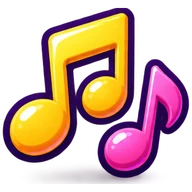
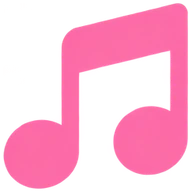
アイコン12個を、つやのあるゲーム風からシンプルなフラットな絵に作り直す（ChatGPT で制作）。ルールのシールは白いアイコンが見えるよう薄紫に

diff --git a/index.html b/index.html
@@ -135,7 +135,7 @@
 
   /* ---------- 実験のルール（シール） ---------- */
   .rules{display:grid; grid-template-columns:repeat(3,1fr); gap:8px; margin:0; padding:0; list-style:none}
-  .rules li{background:#fff; color:var(--ink); border-radius:16px; padding:12px 6px 10px; text-align:center; font-size:12px; font-weight:800; line-height:1.4;
+  .rules li{background:#f4f1ff; color:var(--ink); border-radius:16px; padding:12px 6px 10px; text-align:center; font-size:12px; font-weight:800; line-height:1.4;
             box-shadow:0 4px 0 rgba(0,0,0,.25)}
   .rules li:nth-child(1){rotate:-2deg} .rules li:nth-child(3){rotate:2deg}
   .rules .ic{display:block; width:52px; height:52px; margin:-2px auto 4px}
@@ -180,11 +180,11 @@
 
   <section class="hero">
     <i class="deco d1"></i><i class="deco d2"></i><i class="deco d3"></i><i class="deco d4"></i>
-    <span class="lab"><img class="x" src="assets/ui/icon_flask.webp" alt="" width="96" height="96">実験中</span>
+    <span class="lab"><img class="x" src="assets/ui/icon_flask.webp?v=2" alt="" width="96" height="96">実験中</span>
     <h1><span class="ai">AI</span>ゲーム<br>実験室</h1>
     <p class="catch">プログラムも絵も音も<br><b>ぜんぶAI</b>が作ったゲーム</p>
     <!-- プレイ回数（ranking-gas.js の ?view=plays。全5ゲームの合計。取れなければ出さない） -->
-    <span class="count" id="stats" hidden><img class="ico" src="assets/ui/icon_controller.webp" alt="" width="96" height="96">みんなで<b id="stAll">0</b>回あそんだ！</span>
+    <span class="count" id="stats" hidden><img class="ico" src="assets/ui/icon_controller.webp?v=2" alt="" width="96" height="96">みんなで<b id="stAll">0</b>回あそんだ！</span>
   </section>
 
   <h2 id="games">あそぶゲームをえらぶ</h2>
@@ -192,7 +192,7 @@
     <a class="tile big t-geigeki" href="geigeki_road.html">
       <img src="assets/screens/geigeki_3.jpg" width="540" height="1052" alt="迎撃ロードの画面。数十万の敵軍と白兵戦になり爆発が起きている">
       <span class="ribbon">おすすめ</span>
-      <span class="plays" data-game="geigeki" hidden><img class="x" src="assets/ui/icon_controller.webp" alt="" width="96" height="96"><b></b>回</span>
+      <span class="plays" data-game="geigeki" hidden><img class="x" src="assets/ui/icon_controller.webp?v=2" alt="" width="96" height="96"><b></b>回</span>
       <div class="body">
         <span class="genre">撃って守る防衛戦</span>
         <h3>迎撃ロード</h3>
@@ -202,22 +202,22 @@
     </a>
     <a class="tile t-million" href="million_march.html">
       <img src="assets/screens/million_4.jpg" width="540" height="1052" alt="Million March の画面。数十万の金色の鎧の大軍が行進する" loading="lazy">
-      <span class="plays" data-game="million" hidden><img class="x" src="assets/ui/icon_controller.webp" alt="" width="96" height="96"><b></b>回</span>
+      <span class="plays" data-game="million" hidden><img class="x" src="assets/ui/icon_controller.webp?v=2" alt="" width="96" height="96"><b></b>回</span>
       <div class="body"><span class="genre">めざせ100万の大軍</span><h3>Million March</h3></div>
     </a>
     <a class="tile t-power" href="../power-tower/">
       <img src="assets/screens/power_1.jpg" width="540" height="1052" alt="パワータワーの画面。砂浜に並ぶ塔の上に檻に入ったお姫様がいる" loading="lazy">
-      <span class="plays" data-game="power" hidden><img class="x" src="assets/ui/icon_controller.webp" alt="" width="96" height="96"><b></b>回</span>
+      <span class="plays" data-game="power" hidden><img class="x" src="assets/ui/icon_controller.webp?v=2" alt="" width="96" height="96"><b></b>回</span>
       <div class="body"><span class="genre">吸収して塔を登る</span><h3>パワータワー</h3></div>
     </a>
     <a class="tile t-snow" href="../snow-grill/">
       <img src="assets/screens/snow_3.jpg" width="540" height="1052" alt="スノーグリルの画面。バリケードの向こうに雪の巨人と白クマの群れ" loading="lazy">
-      <span class="plays" data-game="snow" hidden><img class="x" src="assets/ui/icon_controller.webp" alt="" width="96" height="96"><b></b>回</span>
+      <span class="plays" data-game="snow" hidden><img class="x" src="assets/ui/icon_controller.webp?v=2" alt="" width="96" height="96"><b></b>回</span>
       <div class="body"><span class="genre">狩って焼いて配る</span><h3>スノーグリル</h3></div>
     </a>
     <a class="tile t-tetris" href="../tetris-puzzle/">
       <img src="assets/screens/tetris_3.jpg" width="540" height="1052" alt="テトリスパズルの画面。列がそろって消え、コンボの文字が出ている" loading="lazy">
-      <span class="plays" data-game="tetris" hidden><img class="x" src="assets/ui/icon_controller.webp" alt="" width="96" height="96"><b></b>回</span>
+      <span class="plays" data-game="tetris" hidden><img class="x" src="assets/ui/icon_controller.webp?v=2" alt="" width="96" height="96"><b></b>回</span>
       <div class="body"><span class="genre">並べて消すパズル</span><h3>テトリスパズル</h3></div>
     </a>
   </div>
@@ -229,43 +229,43 @@
     <button role="tab" aria-selected="false" data-i="2">テトリスパズル</button>
   </div>
   <div class="gpt">
-    <div class="gpt-head"><img class="x" src="assets/ui/icon_robot.webp" alt="" width="96" height="96">ゲーム作りAI<small>実際に頼んだ言葉です</small></div>
+    <div class="gpt-head"><img class="x" src="assets/ui/icon_robot.webp?v=2" alt="" width="96" height="96">ゲーム作りAI<small>実際に頼んだ言葉です</small></div>
     <div class="gpt-log" data-i="0">
       <div class="u">武器は銃とかマシンガンとか砲丸とか、そういう感じの方がいいんじゃないかな</div>
-      <div class="a"><img class="x" src="assets/ui/icon_robot.webp" alt="" width="96" height="96"><div class="ans"><span class="done">迎撃ロードに反映しました</span><p>投石・弓・火縄銃…マシンガン・大砲・ロケット砲まで、12段階の武器にしました。ステージが進むほど強い武器で戦えます。</p><img class="shot" src="assets/screens/geigeki_2.jpg" width="540" height="1052" alt="迎撃ロードの画面。青い軍勢がショットガンで敵を撃つ" loading="lazy"></div></div>
+      <div class="a"><img class="x" src="assets/ui/icon_robot.webp?v=2" alt="" width="96" height="96"><div class="ans"><span class="done">迎撃ロードに反映しました</span><p>投石・弓・火縄銃…マシンガン・大砲・ロケット砲まで、12段階の武器にしました。ステージが進むほど強い武器で戦えます。</p><img class="shot" src="assets/screens/geigeki_2.jpg" width="540" height="1052" alt="迎撃ロードの画面。青い軍勢がショットガンで敵を撃つ" loading="lazy"></div></div>
     </div>
     <div class="gpt-log" data-i="1" hidden>
       <div class="u">白クマがちゃんと危険な存在であってほしい</div>
-      <div class="a"><img class="x" src="assets/ui/icon_robot.webp" alt="" width="96" height="96"><div class="ans"><span class="done">スノーグリルに反映しました</span><p>白クマが攻撃する前に、足元へ赤い円が出るようにしました。さらに3ステージに1回、雪の巨人との決戦を足しています。</p><img class="shot" src="assets/screens/snow_1.jpg" width="540" height="1052" alt="スノーグリルの画面。白クマの足元に攻撃の前ぶれの赤い円" loading="lazy"></div></div>
+      <div class="a"><img class="x" src="assets/ui/icon_robot.webp?v=2" alt="" width="96" height="96"><div class="ans"><span class="done">スノーグリルに反映しました</span><p>白クマが攻撃する前に、足元へ赤い円が出るようにしました。さらに3ステージに1回、雪の巨人との決戦を足しています。</p><img class="shot" src="assets/screens/snow_1.jpg" width="540" height="1052" alt="スノーグリルの画面。白クマの足元に攻撃の前ぶれの赤い円" loading="lazy"></div></div>
     </div>
     <div class="gpt-log" data-i="2" hidden>
       <div class="u">ピンクにして。3分モード作って</div>
-      <div class="a"><img class="x" src="assets/ui/icon_robot.webp" alt="" width="96" height="96"><div class="ans"><span class="done">テトリスパズルに反映しました</span><p>パステルカラーのかわいい画面にして、3分間でどこまで消せるかのタイムアタックを作りました。</p><img class="shot" src="assets/screens/tetris_1.jpg" width="540" height="1052" alt="テトリスパズルのモード選択。パステルカラーの画面にタイムアタックが並ぶ" loading="lazy"></div></div>
+      <div class="a"><img class="x" src="assets/ui/icon_robot.webp?v=2" alt="" width="96" height="96"><div class="ans"><span class="done">テトリスパズルに反映しました</span><p>パステルカラーのかわいい画面にして、3分間でどこまで消せるかのタイムアタックを作りました。</p><img class="shot" src="assets/screens/tetris_1.jpg" width="540" height="1052" alt="テトリスパズルのモード選択。パステルカラーの画面にタイムアタックが並ぶ" loading="lazy"></div></div>
     </div>
     <div class="gpt-input" aria-hidden="true">AIに注文を入力…<i></i></div>
   </div>
 
   <h2>実験のルール</h2>
   <ul class="rules">
-    <li><img class="ic" src="assets/ui/icon_nocode.webp" alt="" width="96" height="96">人はコードを<br>書かない</li>
-    <li><img class="ic" src="assets/ui/icon_bubble.webp" alt="" width="96" height="96">注文は<br>言葉だけ</li>
-    <li><img class="ic" src="assets/ui/icon_loop.webp" alt="" width="96" height="96">遊んで直して<br>また遊ぶ</li>
+    <li><img class="ic" src="assets/ui/icon_nocode.webp?v=2" alt="" width="96" height="96">人はコードを<br>書かない</li>
+    <li><img class="ic" src="assets/ui/icon_bubble.webp?v=2" alt="" width="96" height="96">注文は<br>言葉だけ</li>
+    <li><img class="ic" src="assets/ui/icon_loop.webp?v=2" alt="" width="96" height="96">遊んで直して<br>また遊ぶ</li>
   </ul>
 
   <h2>くわしく</h2>
   <div class="roles">
-    <div class="role"><img class="ic" src="assets/ui/icon_laptop.webp" alt="" width="96" height="96"><b>プログラム</b><span>ゲームの動き・当たり判定・演出まで、全部AIが書いています。</span></div>
-    <div class="role"><img class="ic" src="assets/ui/icon_palette.webp" alt="" width="96" height="96"><b>絵</b><span>兵士・巨人・白クマ・背景は、画像生成AIで描きました。</span></div>
-    <div class="role"><img class="ic" src="assets/ui/icon_music.webp" alt="" width="96" height="96"><b>音楽・効果音</b><span>BGMは音楽生成AI（Suno）、効果音はAIがプログラムで作っています。</span></div>
-    <div class="role"><img class="ic" src="assets/ui/icon_sliders.webp" alt="" width="96" height="96"><b>難しさの調整</b><span>AIが自分で何百回も自動プレイして、手応えを合わせました。</span></div>
+    <div class="role"><img class="ic" src="assets/ui/icon_laptop.webp?v=2" alt="" width="96" height="96"><b>プログラム</b><span>ゲームの動き・当たり判定・演出まで、全部AIが書いています。</span></div>
+    <div class="role"><img class="ic" src="assets/ui/icon_palette.webp?v=2" alt="" width="96" height="96"><b>絵</b><span>兵士・巨人・白クマ・背景は、画像生成AIで描きました。</span></div>
+    <div class="role"><img class="ic" src="assets/ui/icon_music.webp?v=2" alt="" width="96" height="96"><b>音楽・効果音</b><span>BGMは音楽生成AI（Suno）、効果音はAIがプログラムで作っています。</span></div>
+    <div class="role"><img class="ic" src="assets/ui/icon_sliders.webp?v=2" alt="" width="96" height="96"><b>難しさの調整</b><span>AIが自分で何百回も自動プレイして、手応えを合わせました。</span></div>
   </div>
   <div class="tips">
-    <img class="ic" src="assets/ui/icon_phone.webp" alt="" width="96" height="96">
+    <img class="ic" src="assets/ui/icon_phone.webp?v=2" alt="" width="96" height="96">
     <p><b>スマホで遊ぶのがおすすめです。</b>登録なし・無料で、そのまま遊べます。</p>
     <p>ホーム画面に追加すると、アプリのように全画面で遊べます（iPhone は Safari の共有ボタン →「ホーム画面に追加」）。</p>
     <p>遊んだら、感想や「ここが変だった」をぜひ教えてください。それがそのまま次の注文になります。</p>
   </div>
-  <a class="fb" href="feedback.html?game=lab"><img class="x" src="assets/ui/icon_letter.webp" alt="" width="96" height="96">感想・改善案を送る</a>
+  <a class="fb" href="feedback.html?game=lab"><img class="x" src="assets/ui/icon_letter.webp?v=2" alt="" width="96" height="96">感想・改善案を送る</a>
 
   <footer>
     <a class="footer-brand" href="https://machino-ai.jp/"><img src="assets/machino-logo.png" alt="" width="40" height="40"><span>まちのAI屋さん<small>長崎のAIシステム開発・AI相談</small></span></a>

diff --git a/feedback.html b/feedback.html
@@ -95,7 +95,7 @@
 <div class="sky" aria-hidden="true"></div>
 <main>
   <div class="head">
-    <img src="assets/ui/icon_letter.webp" alt="" width="96" height="96">
+    <img src="assets/ui/icon_letter.webp?v=2" alt="" width="96" height="96">
     <h1>感想を送る</h1>
     <p class="lede">ひとことでも、星だけでもOK。<br>もらった声で、AIがゲームを直していきます。</p>
   </div>
@@ -120,7 +120,7 @@
   </form>
 
   <div class="card done" id="done" hidden>
-    <img src="assets/ui/icon_robot.webp" alt="" width="96" height="96">
+    <img src="assets/ui/icon_robot.webp?v=2" alt="" width="96" height="96">
     <h2>届きました！</h2>
     <p>ありがとうございます。<br>次のアップデートで直していきます。</p>
     <a class="btn" id="btnBack" href="./">ゲームにもどる</a>

diff --git a/CLAUDE.md b/CLAUDE.md
@@ -59,7 +59,7 @@ python -m http.server 8797
 - **迎撃ロードの難しさ**：敵の数・門や台座の固さ・増える板の大きさは、自分の兵力ではなく**その面の標準**（`refArmy`＝兵力の目安の曲線 `armyTarget`、`refPower`＝その面の標準の武器）で決める。だから兵が多いほど楽で、苦しいときは前の面で増員してから挑める。赤軍を受け止めずに通したときの被害は `PASS_LOSS`（敵の戦力の52%）。自動プレイでは、赤軍の3割をよけてしまう人でも「失敗したら前の面を2回遊び直す」で全10面に届く
 - **Million March の味方の見た目**：兵が増えるとまとめて描く段が上がり、見た目が進化する（隊長→重装騎士→騎馬隊→聖騎士→巨大騎士→黄金の巨神。`ALLY_RANK_SPRITE`）。絵は `assets/evolve/`（ChatGPTで制作）。大軍で1色の塊に見えないよう、段階ごとに配色を変えた絵（騎馬=くすんだ緑、聖騎士=真紅、巨神=紫）に細い縁取りを焼き込んである。色のオーラは露骨に見えたのでやめた。描くときは上位の兵に1つ下・2つ下の兵を混ぜ（`composition`）、最前列は一番上の段の兵、その後ろは段ごとに均等に散らす（`placeCrowd`）
 - **BGM**：`Snd` の中の `SONGS` に景色ごとの曲。ステージ開始時に `Snd.song(景色の番号, 偶数面か)`、ボーナスは `Snd.song("bonus")`。本物の曲は Suno で作った `assets/bgm/<曲名>.mp3`（valley / desert / snow / volcano / sky / bonus、2つのゲームで共通）。**面ごとに曲が変わる**：奇数面は `<曲名>.mp3`、偶数面は同じ景色の2曲目 `<曲名>2.mp3`（無ければ1曲目を流す）。WebAudio で読み込んでループ再生し、読み込めるまでと読めなかったときは `SONGS` のピコピコを鳴らす。曲の差しかえは `python tools/bgm_loop.py <元.mp3> assets/bgm/<曲名>.mp3 <BPM>`（静かな頭を飛ばし、4小節単位で75秒前後に切って、切れ目なくループするよう加工）
-- **絵文字は使わない**（安っぽく見えるため。2026-09-27 オーナー指示）。アイコンは ChatGPT のブラウザ操作で作った `assets/ui/icon_*.webp`（フラスコ・コントローラー・AIロボット など12個）。足りないときも同じ作り方で足す
+- **絵文字は使わない**（安っぽく見えるため。2026-09-27 オーナー指示）。アイコンは ChatGPT のブラウザ操作で作った `assets/ui/icon_*.webp`（フラスコ・コントローラー・AIロボット など12個）。つやや立体感のあるゲーム風はチープに見えたので、**縁取り・影・光沢なしのフラットな絵**にしている。絵を差しかえたら参照の `?v=` を上げる。足りないときも同じ作り方で足す
 - ファイル名・フォルダ名に空白を入れない（区切りは `_`）
 
 ## ランキング
